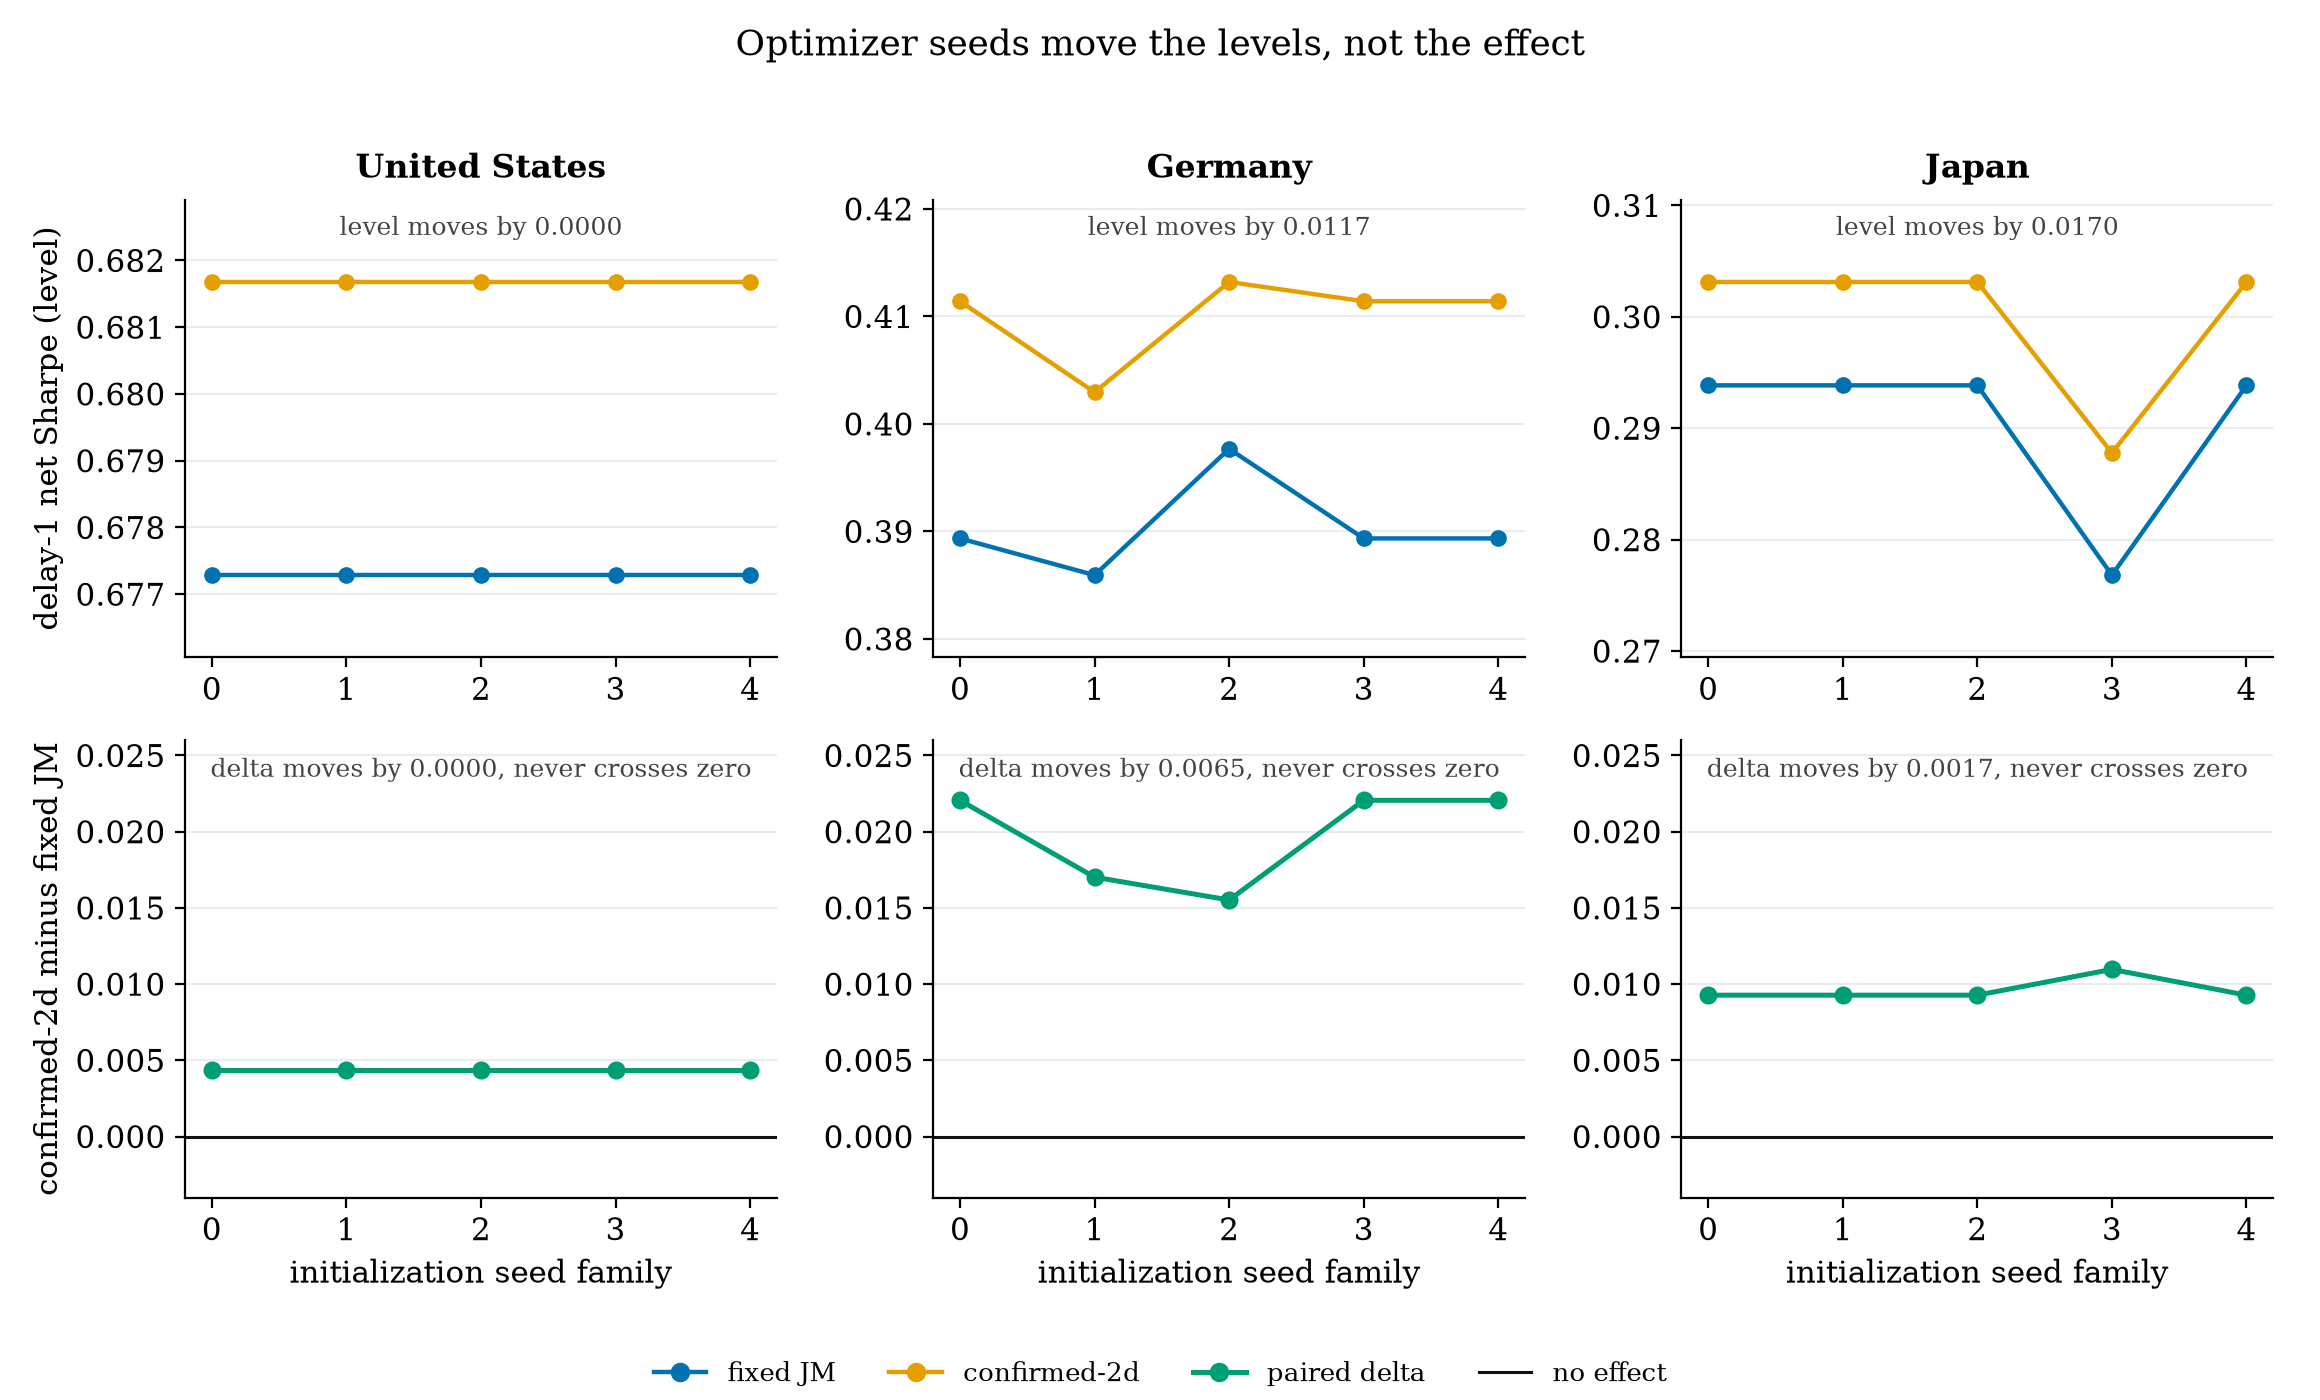
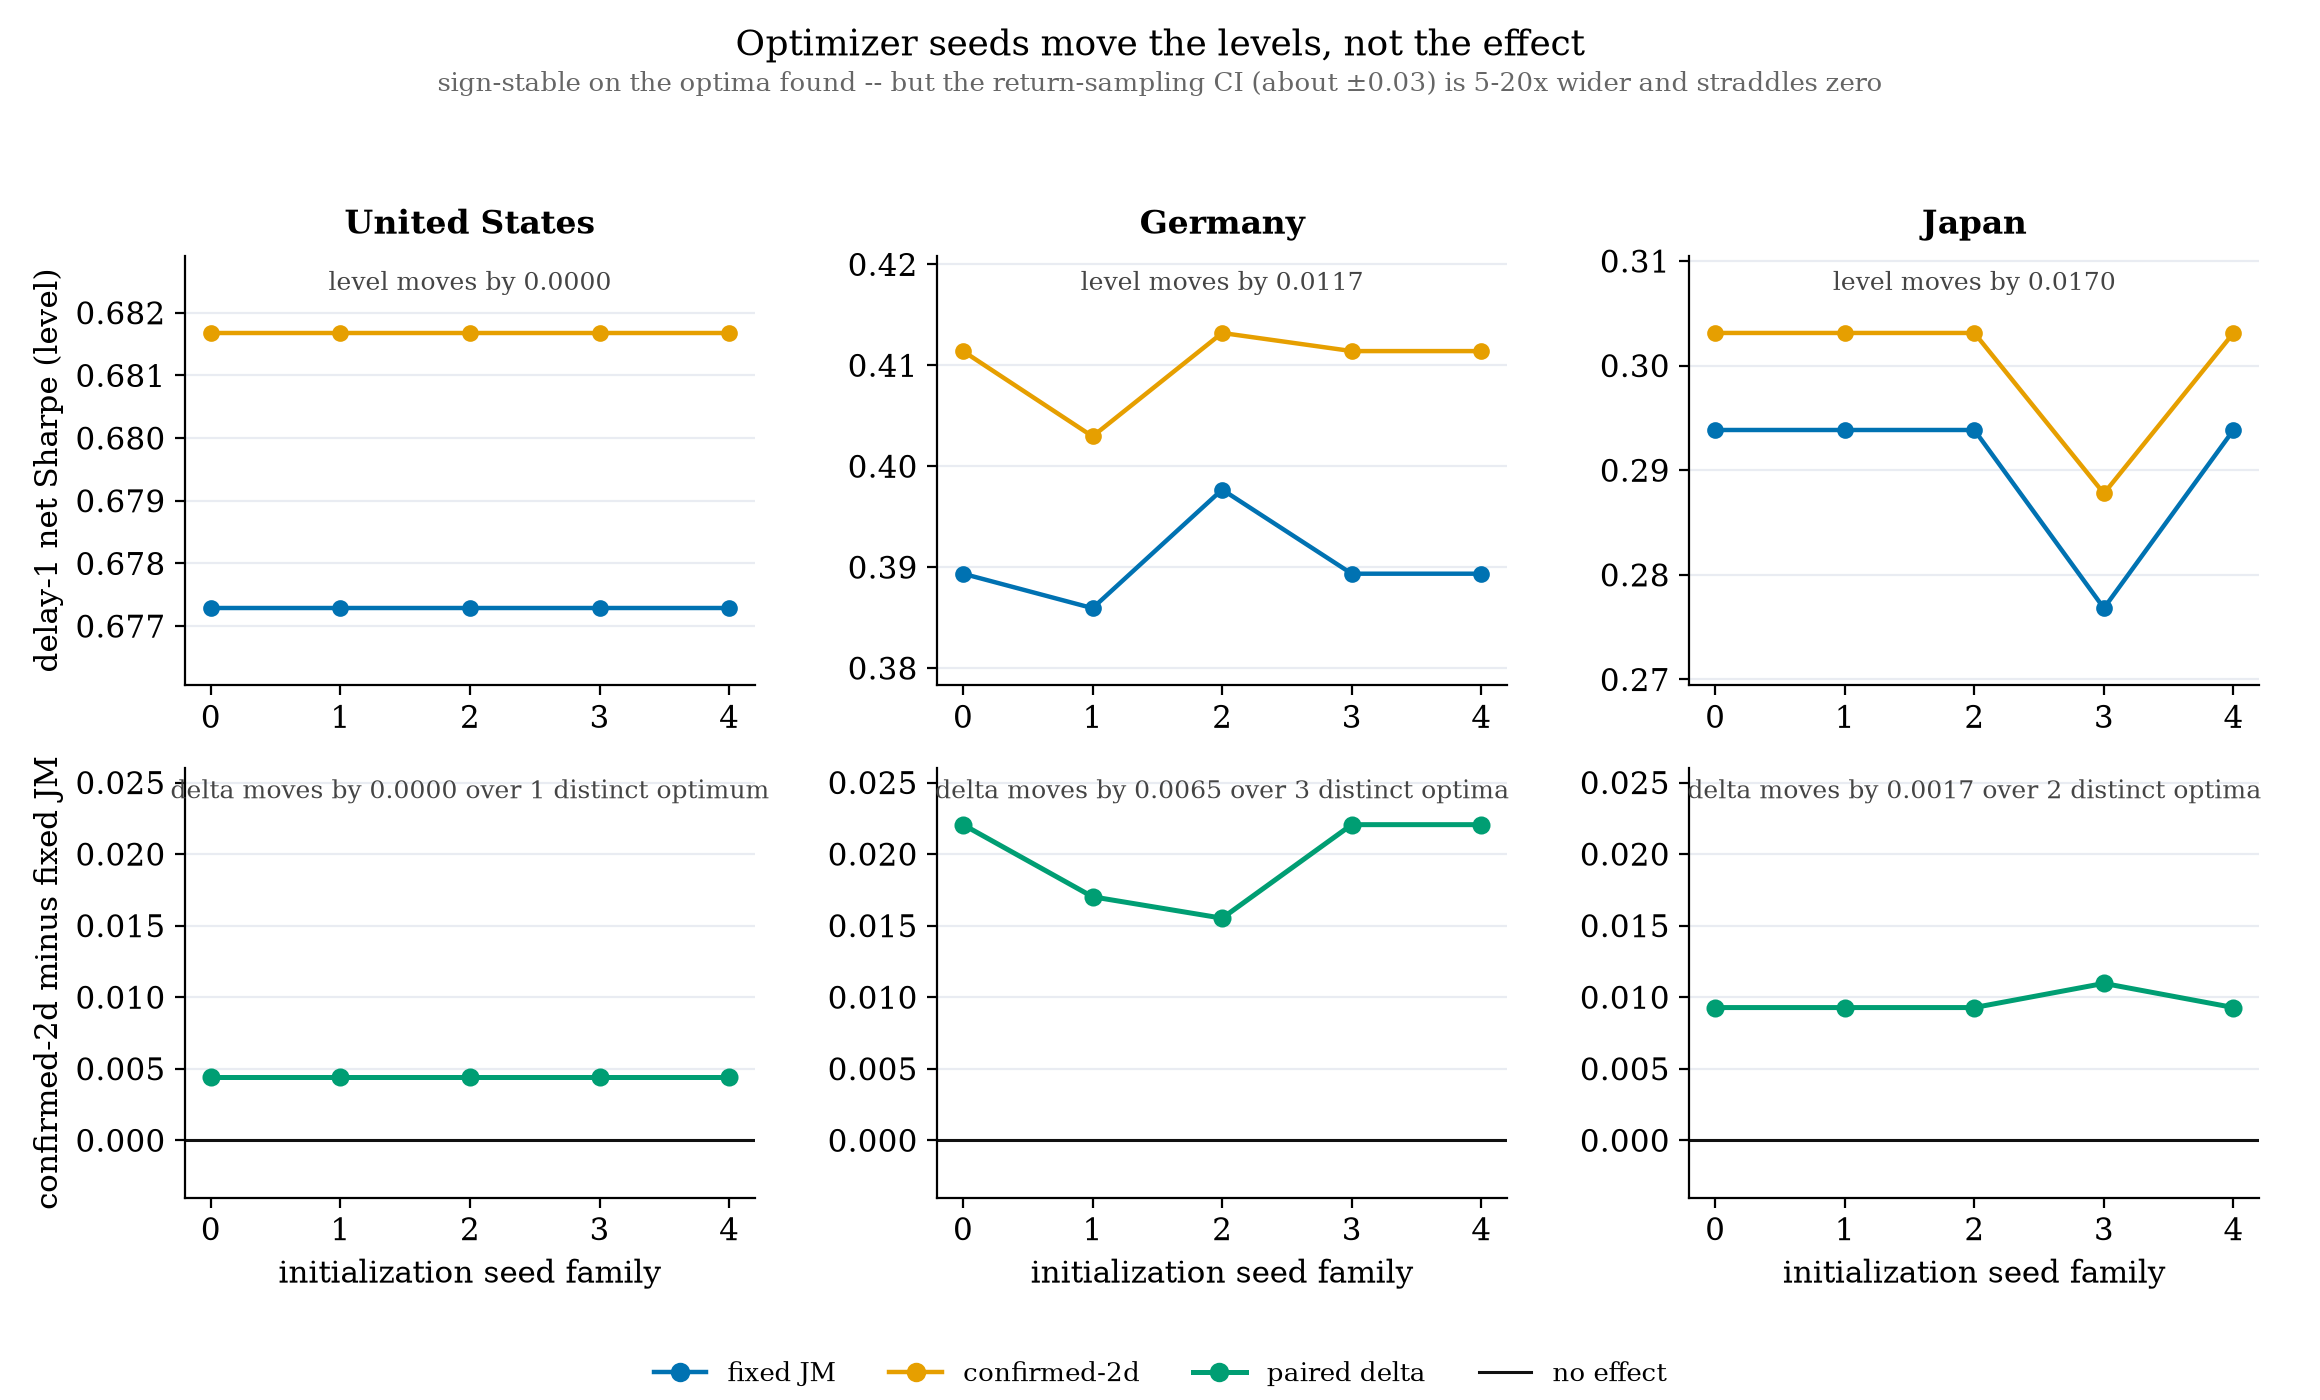
research: L4 verified bit-identical -- but sampling noise, not optimizer noise, binds
Independent verifier recomputed all 15 paired cells from its own
implementation of the frozen confirmation rule (did not import
confirm_two_observations): max |diff| = 0.000e+00, exact float64 equality.
Correctness anchors pass; the adversarial "both arms degraded" hypothesis is
refuted (JP seed 3 degrades both arms yet the delta GROWS).

Three qualifications that change how this may be stated:

(a) Effective sample is 1/3/2, not 5. The five seed families fit
    differently but after monthly selection collapse to only us 1, de 3,
    jp 2 DISTINCT selected paths. "Sign-stable across five families"
    overstates; US's 0.0000 spread is one observed outcome, and JP's 10x
    story rests on one alternative optimum. The std column is a std over
    duplicated rows, not a standard error.

(b) Cancellation is market-dependent and REVERSES in DE: 90.1% common-mode
    cancellation in JP but -47.6% in DE seed 1, where the challenger moved
    2.5x more than the JM so pairing amplified. Tightening is 10.1x in JP,
    1.80x in DE.

(c) The binding uncertainty is return sampling, not the optimizer. Paired
    63-day block bootstrap (2000 resamples, common index): us +0.0044 CI
    [-0.0267, +0.0397] P=0.62; de +0.0221 CI [-0.0214, +0.0684] P=0.84; jp
    +0.0093 CI [-0.0201, +0.0404] P=0.74. Every CI straddles zero, stable
    across block lengths 21/63/126/252. Sampling half-width (~0.03) is
    5-20x the paired optimizer spread.
[…]

diff --git a/scripts/plot_paired_stability.py b/scripts/plot_paired_stability.py
@@ -9,6 +9,13 @@ together cancels in the difference.
 Japan is the case that makes the point: the levels move by 0.017 while the
 delta moves by 0.0017 and never changes sign.
 
+Honesty caveat drawn on the figure: after monthly selection the five seed
+families collapse to only 1 (US) / 3 (DE) / 2 (JP) DISTINCT selected paths,
+so this is sign-stability over that many distinct optima, not over five.
+And the paired optimizer spread is 5-20x SMALLER than the return-sampling
+CI half-width (about 0.03), which is the binding uncertainty -- every
+paired bootstrap CI straddles zero. See the verification receipt.
+
 Style follows the repo's Shu-grammar convention (simple_jm_figures.py):
 serif, white ground, Okabe-Ito palette, y-grid only, solid strokes only.
 """
@@ -99,9 +106,11 @@ def main() -> int:
             bottom.set_ylim(-0.004, 0.026)
             bottom.set_xticks(seeds)
             bottom.set_xlabel("initialization seed family")
+            distinct = int(rows["paired_delta"].round(12).nunique())
             bottom.text(
-                0.5, 0.92,
-                f"delta moves by {delta_spread:.4f}, never crosses zero",
+                0.5, 0.93,
+                f"delta moves by {delta_spread:.4f} over {distinct} distinct "
+                f"optim{'um' if distinct == 1 else 'a'}",
                 transform=bottom.transAxes, ha="center", fontsize=9.0,
                 color="#444444",
             )
@@ -124,7 +133,13 @@ def main() -> int:
             "Optimizer seeds move the levels, not the effect",
             fontsize=13.0,
         )
-        figure.tight_layout(rect=(0, 0.055, 1, 0.965))
+        figure.text(
+            0.5, 0.935,
+            "sign-stable on the optima found -- but the return-sampling CI "
+            "(about \u00b10.03) is 5-20x wider and straddles zero",
+            ha="center", fontsize=9.5, color="#666666",
+        )
+        figure.tight_layout(rect=(0, 0.055, 1, 0.925))
         figure.savefig(OUT, dpi=200)
         plt.close(figure)
 

diff --git a/docs/audit/2026-08-09-optimizer-fidelity-l4-receipt.md b/docs/audit/2026-08-09-optimizer-fidelity-l4-receipt.md
@@ -1,0 +1,119 @@
+# L4 paired-delta optimizer robustness — independent verification receipt (2026-08-09)
+
+Scope: full recomputation audit of `artifacts/optimizer-fidelity/level4-paired.csv`
+(the paired confirmed_2d-minus-fixed-JM deltas across five initialization-seed
+families), performed by a separate agent that did not write
+`scripts/optimizer_fidelity_l4.py`. The verifier implemented the confirmation
+rule itself from the frozen spec (`research/simple-jm-suite-003.toml`,
+`variants.confirmed_2d`) rather than importing the repo's
+`confirm_two_observations`, and recomputed every number from
+`states.pkl` → `select_monthly_candidate` → filter → `apply_signal` →
+`performance_metrics`.
+
+## Verdict
+
+- **Numeric claim: CONFIRMED** — bit-identical, all 15 rows.
+- **Methodological argument: CONFIRMED WITH QUALIFICATION** — the pairing
+  logic is sound and the Japan conclusion is right, but three qualifications
+  change how the result may be stated.
+
+## What was confirmed
+
+Max |difference| = **0.000e+00** on `jm_sharpe`, `c2d_sharpe` and
+`paired_delta` across all 15 (market, seed) rows — exact float64 equality to
+15 decimal places. All 15 paired deltas strictly positive.
+
+Independent correctness anchors, all passing:
+
+| market | seed-0 JM vs sealed `metrics.csv` | seed-0 confirmed_2d vs sealed suite `summary.csv` |
+|---|---|---|
+| us | \|d\| = 3.3e-14 | \|d\| = 0.0 |
+| de | \|d\| = 2.4e-14 | \|d\| = 5.6e-17 |
+| jp | \|d\| = 5.6e-16 | \|d\| = 0.0 |
+
+The verifier's own confirmation filter is bit-identical to the repo's
+`confirm_two_observations` on all 15 real state paths. Polarity (state 1 =
+bear/cash) confirmed empirically from realized returns; cached states are
+cell-identical to the sealed `jm-states.csv` (not stale); window row counts
+equal the sealed observation counts for both arms in all 15 cases.
+
+The adversarial hypothesis was **refuted**: in the only case where both arms
+degraded (JP seed 3), the delta *grew* (+0.009276 → +0.010965), so no
+positive delta arises from common degradation.
+
+## Qualification (a): the effective sample is 1 / 3 / 2, not 5
+
+The five seed families produce genuinely different *fits* (candidate-state
+cells differing versus seed 0: us 3–6, de 6–18, jp 3–10), but after monthly
+selection the *selected* paths collapse to only **us 1, de 3
+({0,3,4},{1},{2}), jp 2 ({0,1,2,4},{3})** distinct optima.
+
+Consequences, applied:
+
+- "Sign-stable across five families" **overstates**. The correct phrasing is
+  "optimizer nonuniqueness does not flip the sign on the 1/3/2 distinct
+  optima found."
+- US's spread of 0.000000 (both paired and raw) is **one observed outcome**,
+  not evidence of stability — this also retracts the earlier "noise floor
+  us 0.0000" headline.
+- Japan's entire 10× tightening story rests on **one** alternative optimum.
+- The `std` column in `level4-summary.csv` is a standard deviation over
+  duplicated rows and is **not** a standard error.
+
+## Qualification (b): cancellation is market-dependent, and reverses in DE
+
+| contrast | JM move | confirmed_2d move | delta move | common-mode cancelled |
+|---|---|---|---|---|
+| jp seed3 vs seed0 | −0.017032 | −0.015342 | +0.001690 | **90.1%** |
+| de seed2 vs seed0 | +0.008334 | +0.001796 | −0.006537 | 21.6% |
+| de seed1 vs seed0 | −0.003415 | −0.008454 | −0.005040 | **−47.6%** |
+
+In DE seed 1 the challenger moved 2.5× *more* than the JM, so pairing
+**amplified** rather than cancelled. Paired-versus-raw tightening is 10.1× in
+JP but only 1.80× in DE. "Optimizer noise is largely common to both arms"
+holds where the claim leans on it and fails elsewhere; it is not a uniform
+property.
+
+## Qualification (c): optimizer noise is not the binding uncertainty
+
+Paired 63-day moving-block bootstrap (2000 resamples, common block index
+across both arms so the pairing is preserved), seed 0, sealed OOS window:
+
+| market | Δ | 95% CI | P(Δ > 0) |
+|---|---|---|---|
+| us | +0.004391 | [−0.0267, +0.0397] | 0.62 |
+| de | +0.022057 | [−0.0214, +0.0684] | 0.84 |
+| jp | +0.009276 | [−0.0201, +0.0404] | 0.74 |
+
+Stable across block lengths 21 / 63 / 126 / 252 — **every CI straddles
+zero**. The sampling-CI half-width (about 0.03 Sharpe) is **5–20× the paired
+optimizer spread** (0.0000 / 0.0065 / 0.0017).
+
+Mechanism, measured: positions differ on only 27/8565, 55/8602, 49/8336 days
+(0.3–0.6%); the filter delays each transition by one day and removes exactly
+one round trip per market (switches 28→26, 56→54, 50→48); transaction-cost
+savings are only 7.5% / 1.5% / 3.9% of the net return gain, the rest being
+one-day timing on a handful of dates (the US top-5 days contribute 267% of
+the net difference — a small residual of larger offsetting terms).
+
+## Corrected status of confirmed_2d
+
+Optimizer-robust in sign on the optima found, but **not distinguishable from
+zero on the return-sampling axis in any of the three markets**. Recorded as
+an observation; explicitly not evidence that the margin is real.
+
+## Direct consequence for the DA-JM experiment design
+
+The binding noise floor on this data is the **return-sampling floor of
+roughly ±0.03 Sharpe** (CI half-width), not the optimizer floor of
+0.002–0.007. A DA-JM effect must clear the former to be reportable under the
+owner's frozen two-tier criterion; clearing only the latter is insufficient.
+Both floors are to be reported.
+
+## Latent hazard (no numeric effect today)
+
+`build_control_path` hardcodes `PRIMARY_DELAY_TRADING_DAYS = 1` and
+`ONE_WAY_COST_BPS = 10.0`, while `select_monthly_candidate` in the same
+script is fed `config.backtest_protocol` values. They coincide under v11, so
+nothing here is affected, but the two paths could silently diverge under a
+different config.
